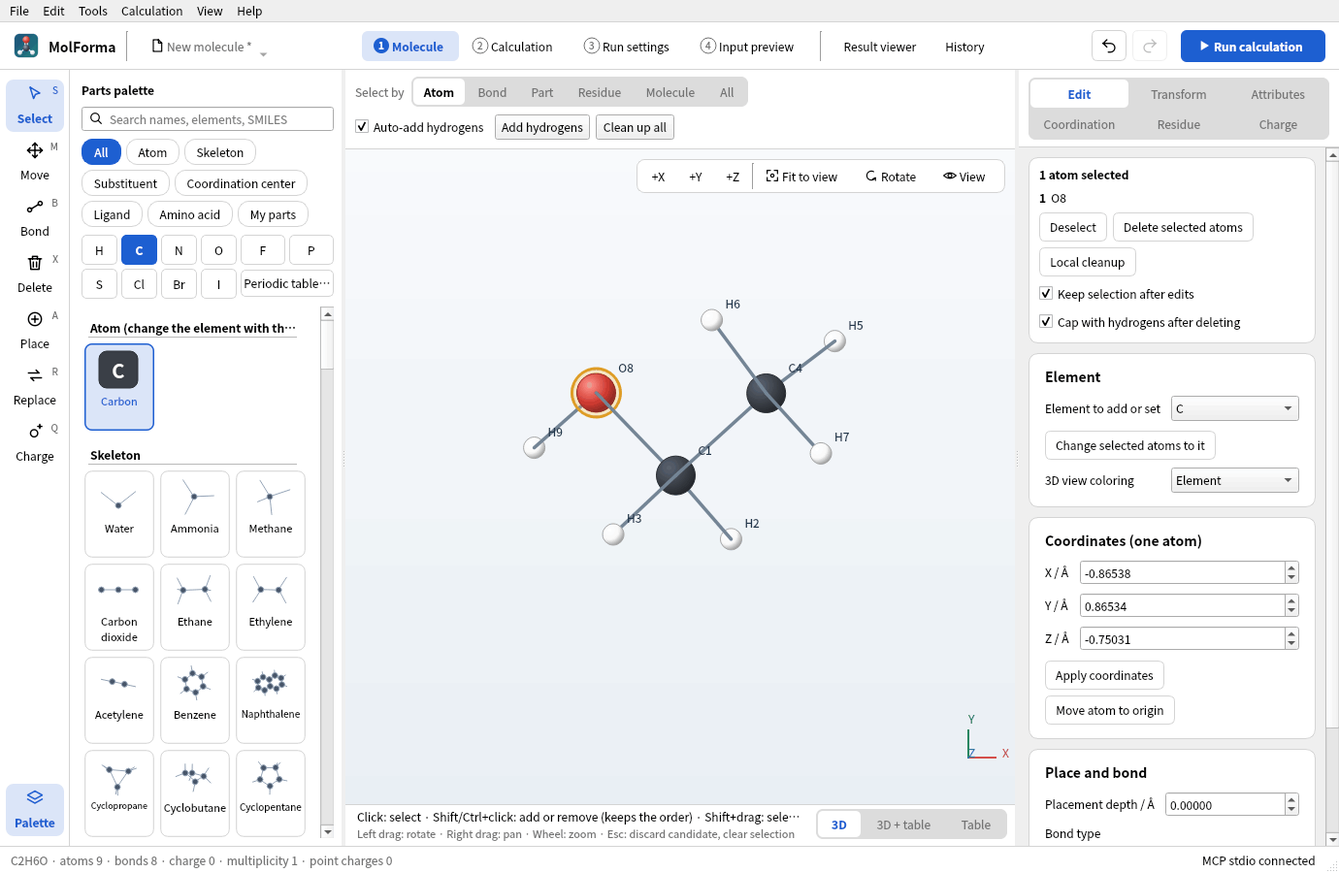
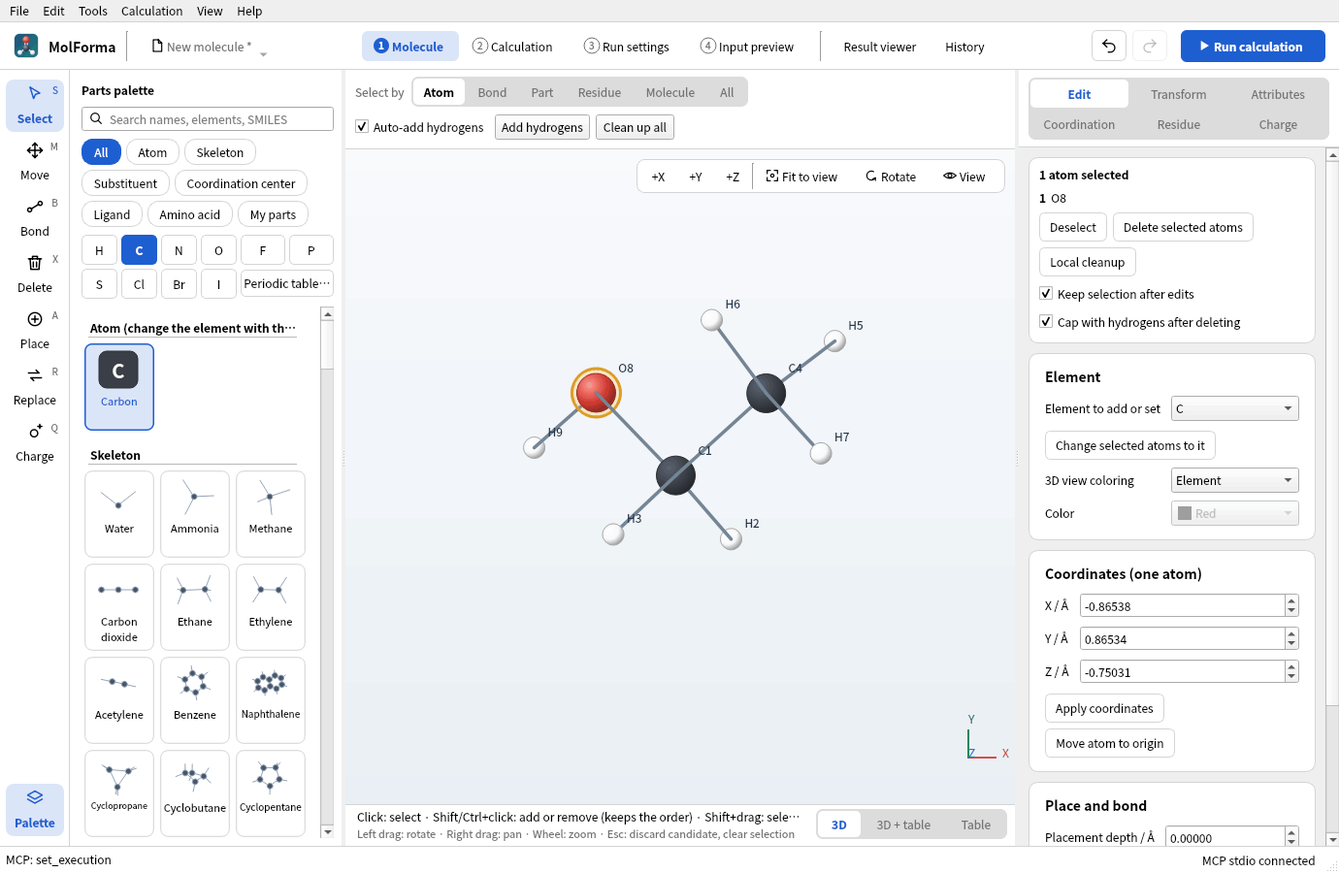
Color atoms in one color; fit large structures to the view
"3D画面の色分け" gets "単色": every atom in the color chosen under "色", one
of eight or any from the color dialog, to see the shape of large molecules
such as a virus spike protein.

"全体を表示" no longer stops zooming out at 4 px/Å, which cut off
structures of a radius over about 70 Å; it zooms out as far as the wheel.

Changed region(s): [[0.779, 0.56, 0.9659, 0.9644], [0.0, 0.9644, 0.2804, 0.9956], [0.9348, 0.9333, 0.9659, 0.9644]]

diff --git a/src/ui/molecule_properties.cpp b/src/ui/molecule_properties.cpp
@@ -206,14 +206,62 @@ void MoleculePanel::buildEditPanel() {
                                [this] { replaceElements(requireSelection(), value(elementBox)); }),
                         1);
     // In a card like the rest of the page: how the 3D view colors the atoms.
-    auto *color =
-        choices(f, tr("3D画面の色分け"), {tr("元素"), tr("残基"), tr("鎖")}, {"element", "residue", "chain"});
+    auto *color = choices(f, tr("3D画面の色分け"), {tr("元素"), tr("残基"), tr("鎖"), tr("単色")},
+                          {"element", "residue", "chain", "uniform"});
     color->setObjectName("moleculeColorMode");
     color->setToolTip(
         tr("残基: 残基ごとに色を変えます。鎖: たんぱく質・核酸の残基を鎖ごとの色にし、配位子・イオン・水は"
-           "元素の色のままにします。"));
-    connect(color, &QComboBox::currentIndexChanged, this,
-            [this, color] { view->setColorMode(value(color)); });
+           "元素の色のままにします。単色: すべての原子を下の「色」で選んだ色にします。"));
+    // The color of "単色": one of a few, or any from the color dialog.
+    static constexpr std::pair<const char *, const char *> palette[] = {
+        {QT_TR_NOOP("赤"), "#c8323c"}, {QT_TR_NOOP("橙"), "#e8822a"},   {QT_TR_NOOP("黄"), "#e3c13b"},
+        {QT_TR_NOOP("緑"), "#4a9e52"}, {QT_TR_NOOP("水色"), "#5ab4d6"}, {QT_TR_NOOP("青"), "#3f6fb5"},
+        {QT_TR_NOOP("紫"), "#8a5aa8"}, {QT_TR_NOOP("灰色"), "#9a9a9a"}};
+    const auto swatch = [](const QColor &c) {
+        QPixmap pixmap(14, 14);
+        pixmap.fill(c);
+        return QIcon(pixmap);
+    };
+    auto *uniform = new QComboBox;
+    uniform->setObjectName("moleculeUniformColor");
+    for (const auto &[name, hex] : palette)
+        uniform->addItem(swatch(QColor(hex)), translated(name), QString(hex));
+    uniform->addItem(tr("その他の色…"));
+    uniform->setEnabled(false);
+    uniform->setProperty("chosen", 0);
+    view->setUniformColor(QColor(palette[0].second));
+    f->addRow(tr("色"), uniform);
+    connect(color, &QComboBox::currentIndexChanged, this, [this, color, uniform] {
+        uniform->setEnabled(value(color) == "uniform");
+        view->setColorMode(value(color));
+    });
+    connect(uniform, &QComboBox::currentIndexChanged, this, [this, uniform](int index) {
+        if (const QColor c(uniform->itemData(index).toString()); c.isValid()) {
+            uniform->setProperty("chosen", index);
+            view->setUniformColor(c);
+        }
+    });
+    // "その他の色…" asks for a color, which an item before it then holds; cancelling keeps the last one.
+    connect(uniform, &QComboBox::activated, this, [this, uniform, swatch](int index) {
+        if (index != uniform->count() - 1)
+            return;
+        const int chosen = uniform->property("chosen").toInt();
+        const auto c =
+            QColorDialog::getColor(QColor(uniform->itemData(chosen).toString()), this, tr("単色の色"));
+        if (!c.isValid()) {
+            uniform->setCurrentIndex(chosen);
+            return;
+        }
+        int custom = uniform->count() - 2;
+        if (!uniform->itemData(custom, Qt::UserRole + 1).toBool()) {
+            uniform->insertItem(++custom, QString());
+            uniform->setItemData(custom, true, Qt::UserRole + 1);
+        }
+        uniform->setItemIcon(custom, swatch(c));
+        uniform->setItemText(custom, c.name());
+        uniform->setItemData(custom, c.name());
+        uniform->setCurrentIndex(custom);
+    });
     // The coordinate table, when shown, edits the same values.
     positionCard = section(f, QT_TR_NOOP("座標（1原子）"));
     positionCard->setVisible(moleculeLayout->currentData() == "view");

diff --git a/tests/test_editor.cpp b/tests/test_editor.cpp
@@ -16,6 +16,7 @@
 #include <QApplication>
 #include <QCheckBox>
 #include <QClipboard>
+#include <QColorDialog>
 #include <QComboBox>
 #include <QDialogButtonBox>
 #include <QDir>
@@ -1127,7 +1128,43 @@ class EditorTest : public QObject {
             QVERIFY(!b->text().contains("拘束に追加"));
         }
         auto *color = w.findChild<QComboBox *>("moleculeColorMode");
-        QCOMPARE(color->count(), 3);
+        QCOMPARE(color->count(), 4);
+        // "単色": its color from a few, or any from the color dialog.
+        auto *uniform = w.findChild<QComboBox *>("moleculeUniformColor");
+        QVERIFY(!uniform->isEnabled());
+        color->setCurrentIndex(color->findData("uniform"));
+        QVERIFY(uniform->isEnabled());
+        const auto oxygen = d.atoms[0].id;
+        QCOMPARE(w.canvas()->atomColor(oxygen), QColor("#c8323c"));
+        uniform->setCurrentIndex(uniform->findText("青"));
+        QCOMPARE(w.canvas()->atomColor(oxygen), QColor("#3f6fb5"));
+        const int other = uniform->count() - 1;
+        const auto choose = [&](const QColor &chosen) {
+            QTimer::singleShot(0, &w, [chosen] {
+                auto *dialog = qobject_cast<QColorDialog *>(QApplication::activeModalWidget());
+                QVERIFY(dialog);
+                if (chosen.isValid()) {
+                    dialog->setCurrentColor(chosen);
+                    dialog->accept();
+                } else
+                    dialog->reject();
+            });
+            const int last = uniform->count() - 1; // "その他の色…", after the color so chosen.
+            uniform->setCurrentIndex(last);
+            emit uniform->activated(last);
+        };
+        choose(QColor()); // Cancelled: the last color stays.
+        QCOMPARE(uniform->currentText(), QString("青"));
+        QCOMPARE(w.canvas()->atomColor(oxygen), QColor("#3f6fb5"));
+        choose(QColor("#123456"));
+        QCOMPARE(uniform->currentText(), QString("#123456"));
+        QCOMPARE(w.canvas()->atomColor(oxygen), QColor("#123456"));
+        choose(QColor("#654321")); // The same item holds the next one.
+        QCOMPARE(uniform->count(), other + 2);
+        QCOMPARE(w.canvas()->atomColor(oxygen), QColor("#654321"));
+        color->setCurrentIndex(color->findData("element"));
+        QVERIFY(!uniform->isEnabled());
+        QCOMPARE(w.canvas()->atomColor(oxygen), element("O").color);
         QVERIFY(w.findChild<QPushButton *>("preparePdb"));
 
         // The task is set in "2 計算条件" only.

diff --git a/src/ui/molecule_view.cpp b/src/ui/molecule_view.cpp
@@ -33,6 +33,8 @@
 #include <utility>
 namespace mf {
 namespace {
+// Pixels per Å: how far the wheel zooms out and in.
+constexpr double MinScale = .5, MaxScale = 600;
 class ViewOverlay : public QWidget {
   public:
     std::function<void(QPainter &)> draw;
@@ -259,7 +261,7 @@ void MoleculeView::indexTrace() {
 void MoleculeView::refreshColors() {
     // By residue: a hue for each residue, the last one that holds the atom. By chain: the polymer residues
     // in a color of each chain, in the order the chains come; ligands, ions and water keep the element
-    // colors, so that they stand out.
+    // colors, so that they stand out. Uniform: every atom in one color, as in pictures of large molecules.
     static const QColor chainColors[] = {
         QColor("#4e79a7"), QColor("#f28e2b"), QColor("#59a14f"), QColor("#e15759"), QColor("#76b7b2"),
         QColor("#edc948"), QColor("#b07aa1"), QColor("#ff9da7"), QColor("#9c755f"), QColor("#bab0ac")};
@@ -280,7 +282,8 @@ void MoleculeView::refreshColors() {
     atomColors.clear();
     atomColors.reserve(doc.atoms.size());
     for (const auto &atom : doc.atoms)
-        atomColors << colors.value(atom.id, element(atom.element).color);
+        atomColors << (colorMode == "uniform" ? uniformColor
+                                              : colors.value(atom.id, element(atom.element).color));
     moleculeDirty = true;
 }
 void MoleculeView::renderScene() {
@@ -467,7 +470,8 @@ void MoleculeView::fit() {
     double radius = 2;
     for (auto p : points)
         radius = std::max(radius, (p - center).norm() + .6);
-    scale = std::clamp(std::min(width(), height()) / (2.5 * radius), 4., 100.);
+    // Large proteins (a radius of 100 Å and more) fit too.
+    scale = std::clamp(std::min(width(), height()) / (2.5 * radius), MinScale, 100.);
     pan = {};
     // A hidden view (another tab) has no final size yet: fit again when it is shown.
     fitPending = !isVisible();
@@ -1107,7 +1111,7 @@ void MoleculeView::mouseReleaseEvent(QMouseEvent *e) {
 }
 void MoleculeView::wheelEvent(QWheelEvent *e) {
     // Zoom about the cursor: the point under it stays in place.
-    const double next = std::clamp(scale * std::pow(1.0015, e->angleDelta().y()), .5, 600.);
+    const double next = std::clamp(scale * std::pow(1.0015, e->angleDelta().y()), MinScale, MaxScale);
     const QPointF cursor = e->position(), middle(width() * .5, height() * .5);
     pan = cursor - middle - (cursor - middle - pan) * (next / scale);
     scale = next;

diff --git a/tests/test_rendering.cpp b/tests/test_rendering.cpp
@@ -148,8 +148,27 @@ class RenderingTest : public QObject {
         QVERIFY(view.atomColor(first) != view.atomColor(other));
         QCOMPARE(view.atomColor(d.residues[1].atoms["CB"]), view.atomColor(first));
         QCOMPARE(view.atomColor(water.atoms[0].id), element("O").color);
+        view.setUniformColor(QColor("#c8323c"));
+        view.setColorMode("uniform"); // Every atom, the water too.
+        QCOMPARE(view.atomColor(first), QColor("#c8323c"));
+        QCOMPARE(view.atomColor(water.atoms[0].id), QColor("#c8323c"));
+        view.setUniformColor(QColor("#3f6fb5"));
+        QCOMPARE(view.atomColor(water.atoms[1].id), QColor("#3f6fb5"));
         view.setColorMode("element");
         QCOMPARE(view.atomColor(first), element("C").color);
+    }
+    void fitsLargeStructures() {
+        // As large as a spike protein of a virus (160 Å) and larger: fitting shows every atom.
+        for (const double size : {160., 400., 1000.}) {
+            auto d = Document::fromXyz(QString("3\n\nC 0 0 0\nC 0 0 %1\nC 0 3 %1\n").arg(size));
+            MoleculeView view;
+            view.resize(400, 300);
+            view.setDocument(d);
+            view.fit();
+            for (const auto &atom : d.atoms)
+                QVERIFY2(QRectF(0, 0, 400, 300).contains(view.atomScreenPosition(atom.id)),
+                         qPrintable(QString::number(size)));
+        }
     }
     void surfaceWithoutAtoms() {
         MoleculeView view;

diff --git a/src/ui/molecule_view.h b/src/ui/molecule_view.h
@@ -109,10 +109,15 @@ class MoleculeView : public QWidget {
         showIndices = value;
         scheduleOverlay();
     }
-    // "element" (default), "residue" (a hue for each residue) or "chain" (the polymer residues in a color of
-    // their chain, other atoms by element).
+    // "element" (default), "residue" (a hue for each residue), "chain" (the polymer residues in a color of
+    // their chain, other atoms by element) or "uniform" (every atom in uniformColor).
     void setColorMode(const QString &mode) {
         colorMode = mode;
+        refreshColors();
+        scheduleRender();
+    }
+    void setUniformColor(const QColor &color) {
+        uniformColor = color;
         refreshColors();
         scheduleRender();
     }
@@ -181,6 +186,7 @@ class MoleculeView : public QWidget {
     QSet<QString> selectedIds; // The same atoms, for lookups while drawing.
     EditorTool tool = EditorTool::Select;
     QString colorMode = "element";
+    QColor uniformColor = Qt::gray;
     Vec center = Vec::Zero();
     double scale = 65, depth = 0;
     Mat orientation = Mat::Identity(); // Camera rotation; mouse drags turn it about screen axes.

diff --git a/docs/features/molecule.md b/docs/features/molecule.md
@@ -36,7 +36,7 @@
 - **削除**: 「編集」ページの「選択原子を削除」、Deleteキー、削除ツール、右クリックは同じ削除で、候補として表示します。削除する原子だけに結合していた水素も一緒に消し、「削除後に水素で終端化」（「編集」ページの選択の欄と削除ツールの設定は共通、既定でオン）がオンなら、重原子を削除して切れた結合の相手に水素を補います（水素だけを削除したときは補いません）。削除前の全電荷が形式電荷の合計（配位中心があれば酸化数との合計）と一致していれば、全電荷も削除後の合計に合わせます（Na⁺の配位クラスターを消すと+1から0に戻るなど）。座標の表でもDeleteキーは同じ削除です。
 - **候補**: 確定前の変更は3D画面の上の行（ツールの設定と同じ場所。画面に重ならず、3D画面の大きさも変えません）に琥珀色で示し、操作名と、追加・削除・移動した原子数を3D画面と同じ印（追加は緑の円、削除は元の位置に赤い×、移動は橙の円）で表示します。「編集」ページの上部には削除・追加する原子を8件まで一覧します。Ctrl+Enterで確定、Escで取消します（どのタブからでも有効）。「1 分子」以外のタブでは、タブの下に同じバーを表示します。「元に戻す」「やり直す」のツールチップと「編集」メニューには、対象の操作名を表示します。
 - **元に戻す・やり直し**: Undo/Redoは分子と各タブの設定で共通です。戻せる・やり直せる操作がないときはボタンとメニューを無効にします（「変更を確定」も候補があるときだけ有効）。実行するとステータスバーに操作名を表示し、今のタブ以外の内容（例: 「1 分子」で戻した基底関数の変更）なら「（「2 計算条件」の内容）」のようにタブ名を添えます。
-- **視点**: 左ドラッグは画面の縦・横軸まわりの回転（トラックボール）で、向きによる回転方向の偏りがありません。立体的な構造のファイルを開いたときは、結果ビューアと同じく斜めから見た向きで表示します（平面の分子や新規作成は正面から）。編集のあとは、分子が画面からはみ出たときだけ全体表示に合わせ直し、それ以外は視点を動かしません（次にクリックする原子が動かないように）。「+Z」は正面（+Z方向）から見て全体を表示し、「全体を表示」（F）は向きを変えずに分子全体を収めます。回転スライダー（3D画面右上の「回転」）はマウス操作や+X/+Y/+Zに追従し、スライダーに触れても視点は飛びません。ホイールはカーソル位置を中心に拡大縮小します。3D画面右上の操作（+X/+Y/+Z・全体を表示・回転・表示）は結果ビューアでも同じ並びです。
+- **視点**: 左ドラッグは画面の縦・横軸まわりの回転（トラックボール）で、向きによる回転方向の偏りがありません。立体的な構造のファイルを開いたときは、結果ビューアと同じく斜めから見た向きで表示します（平面の分子や新規作成は正面から）。編集のあとは、分子が画面からはみ出たときだけ全体表示に合わせ直し、それ以外は視点を動かしません（次にクリックする原子が動かないように）。「+Z」は正面（+Z方向）から見て全体を表示し、「全体を表示」（F）は向きを変えずに分子全体を収めます（ウイルスのスパイクたんぱく質のような大きな構造も収まるまで縮小します）。回転スライダー（3D画面右上の「回転」）はマウス操作や+X/+Y/+Zに追従し、スライダーに触れても視点は飛びません。ホイールはカーソル位置を中心に拡大縮小します。3D画面右上の操作（+X/+Y/+Z・全体を表示・回転・表示）は結果ビューアでも同じ並びです。
 - **ラベル**: 「表示 → ラベル」で元素記号・番号を表示する原子（すべて・水素以外・選択した原子・なし）を、「表示 → 番号を表示」で通し番号の有無を選びます（3D画面右上の「表示」からも同じ）。ラベルは原子の右上・右下・左上・左下のうち、ほかのラベルや原子に重ならない位置に置きます。置けないラベルは、選択した原子・配位中心・水素以外・手前の原子を優先して省きます。結果ビューアにも同じ選択があります（設定は別々に保存）。
 - **キー操作**: Delete（選択原子を削除。選択がなければステータスバーで知らせます）、Ctrl+A（すべて選択）、Ctrl+C（選択した原子、または全体をXYZでコピー）、Ctrl+V（クリップボードのXYZを断片として今の分子の横に追加）、1/2/3（選択した2原子の結合次数）、H（水素の表示）、F（全体表示）は「1 分子」にフォーカスがあるときだけ働き、入力欄では各欄の通常の操作になります。Ctrl+Enter・Esc・Ctrl+1〜Ctrl+6（タブの切替）・Ctrl+Z/Y等はどこでも働きます。「ヘルプ → キーボードショートカット一覧」に全項目と有効な場所、マウス操作をまとめています。
 - **回転・鏡映の中心**: 「変形」ページの「選択を回転」「指定平面で鏡映」は、既定で選択した原子の中心（座標の平均）を通る軸・平面で行い、分子はその場で向きを変えます。「回転・鏡映の中心」を「原点」にすると座標原点を使います。「鏡像の写しを作る」では、写しを元の分子の+X方向6 Åの位置に、その場で鏡映して置きます。

diff --git a/docs/en/features/molecule.md b/docs/en/features/molecule.md
@@ -36,7 +36,7 @@
 - **Deletion**: “Delete selected atoms” on the “Edit” page, the Delete key, the Delete tool and the context menu perform the same deletion and show it as a candidate. Hydrogens bonded only to the deleted atoms are removed as well, and when “Cap with hydrogens after deleting” is on (one setting shared by the selection box of the “Edit” page and the Delete tool; on by default), deleting heavy atoms adds hydrogens to the atoms whose bonds were cut (not when only hydrogens are deleted). When the total charge matched the sum of the formal charges (with the oxidation numbers of coordination centers, if any) before the deletion, it follows the new sum (deleting a Na⁺ coordination cluster takes it from +1 back to 0, for example). The Delete key in the coordinate table performs the same deletion.
 - **Candidates**: Changes that are not yet confirmed are shown in amber in the row above the 3D view (where the tool settings are; it does not cover the view or change the size of the 3D view), with the operation name and the numbers of added, removed and moved atoms, using the same marks as the 3D view (added: green circle, removed: red × at the old position, moved: orange circle). The top of the “Edit” page lists up to 8 atoms to be removed or added. Ctrl+Enter confirms and Esc discards (from any tab). On tabs other than “1 Molecule”, the same bar appears below the tabs. The tooltips of “Undo” and “Redo” and the “Edit” menu show the name of the operation concerned.
 - **Undo and redo**: Undo/redo is shared by the molecule and the settings of all tabs. When there is nothing to undo or redo, the buttons and menu items are disabled (“Confirm changes” is also enabled only while there is a candidate). Undoing or redoing shows the operation name in the status bar and, when it changes another tab than the current one (for example a basis set change undone from “1 Molecule”), adds the tab name as in (in “2 Calculation”).
-- **View**: Left-drag rotates about the vertical and horizontal axes of the screen (trackball), with no rotation bias that depends on the orientation. A file with a three-dimensional structure opens viewed from an oblique direction, as in the result viewer (planar molecules and new molecules are viewed from the front). After an edit, the view is refitted only when the molecule extends beyond the view; otherwise the view does not move (so that the atom you click next stays in place). “+Z” shows the whole molecule viewed from the front (+Z direction), and “Fit to view” (F) fits the whole molecule without changing the orientation. The rotation sliders (“Rotate” at the top right of the 3D view) follow mouse operations and +X/+Y/+Z, and touching a slider does not make the view jump. The wheel zooms around the cursor position. The controls at the top right of the 3D view (+X/+Y/+Z, “Fit to view”, “Rotate”, “View”) are in the same order in the result viewer.
+- **View**: Left-drag rotates about the vertical and horizontal axes of the screen (trackball), with no rotation bias that depends on the orientation. A file with a three-dimensional structure opens viewed from an oblique direction, as in the result viewer (planar molecules and new molecules are viewed from the front). After an edit, the view is refitted only when the molecule extends beyond the view; otherwise the view does not move (so that the atom you click next stays in place). “+Z” shows the whole molecule viewed from the front (+Z direction), and “Fit to view” (F) fits the whole molecule without changing the orientation (zooming out as far as large structures such as the spike protein of a virus need). The rotation sliders (“Rotate” at the top right of the 3D view) follow mouse operations and +X/+Y/+Z, and touching a slider does not make the view jump. The wheel zooms around the cursor position. The controls at the top right of the 3D view (+X/+Y/+Z, “Fit to view”, “Rotate”, “View”) are in the same order in the result viewer.
 - **Labels**: “View → Labels” chooses the atoms that show their element symbol and number (All, Heavy atoms, Selected atoms, None), and “View → Show numbers” whether serial numbers are shown (the same choices are in “View” at the top right of the 3D view). Each label is placed at the upper right, lower right, upper left or lower left of its atom, wherever it does not overlap other labels or atoms. Labels that do not fit are dropped, keeping those of selected atoms, coordination centers, heavy atoms and atoms in front first. The result viewer has the same choices (saved separately).
 - **Keys**: Delete (deletes the selected atoms; with no selection, the status bar says so), Ctrl+A (select all), Ctrl+C (copy the selected atoms, or the whole molecule, as XYZ), Ctrl+V (add the XYZ on the clipboard as a fragment beside the current molecule), 1/2/3 (bond order of 2 selected atoms), H (show hydrogens) and F (fit to view) work only while “1 Molecule” has the focus; in input fields they do what the field normally does. Ctrl+Enter, Esc, Ctrl+1–Ctrl+6 (switch tabs), Ctrl+Z/Y and so on work everywhere. “Help → Keyboard shortcuts” lists all of them with where they apply, and the mouse controls.
 - **Center of rotation and mirroring**: “Rotate selection” and “Mirror in plane” on the “Transform” page use, by default, an axis or plane through the center of the selected atoms (the mean of their coordinates), so the molecule changes its orientation in place. Setting “Rotation/mirror center” to “Origin” uses the coordinate origin. “Make a mirrored copy” places the copy 6 Å from the original molecule in the +X direction, mirrored in place.

diff --git a/docs/features/molecule_pages.md b/docs/features/molecule_pages.md
@@ -22,7 +22,7 @@
 | 断片割当（FMO／Counterpoise／SAPT0）、断片電荷・多重度、BDA:BAA | 作成・編集のUIはない（NWChem入力へ変換できないため）。Counterpoise補正は「2 計算条件」の「BSSE補正」（結合した分子ごとの単量体、NWChemの `bsse` ブロック）で設定。FMO・SAPT0は未対応 |
 | 残基: PDB読込・ダウンロード（「PDBからダウンロード…」）・診断・修復、構造を検査…、原子対応CSVの書き出し | CSVは出力原子番号・元素・原子名・残基を保存 |
 | 残基: 活性部位の切り出し（「周囲を選択」「選択範囲を切り出す」） | たんぱく質の配位子や活性部位の周りを、量子化学計算用のクラスターモデルにする。「周囲を選択」は選択した原子から半径（既定5 Å）以内の原子を選ぶ。「残基ごとに含める」では半径内に原子がある残基を丸ごと（残基に登録されていない原子は分子ごと）選び、「水分子を含める」を外すと水を除く。水素は結合相手の原子と一緒に選ぶ。「選択範囲を切り出す」は選択していない原子を削除する候補を作り、切った共有結合ごとに、残す原子から元の結合の向きへX–Hの長さ（共有結合半径の和）で水素を置く（リンク原子）。金属との結合と配位結合には水素を置かない。「切断した原子を固定」では水素を付けた原子を固定し、構造最適化でも全体の中での位置を保つ。「水素を付ける（pH 7）」（既定オン）では、PDBの構造にない水素をpH 7の状態で付ける。Asp・Glu −1、Lys・Arg +1、鎖の末端はNH3+・COO−、Hisは金属に配位していない窒素に水素（どちらも配位していなければHIE。残基名がHID・HIE・HIP・ASH・GLH・LYN・CYMならその状態）、金属に配位したCysは−1にする。PDBの化学成分辞書のイオンはその電荷（ZN +2、NA +1、CL −1など）、硫酸（SO4）は−2にし、金属との結合は供与原子からの配位結合にする（配位した水はH2Oのまま）。そのほかの配位子は原子価に合わせて水素を付けるので、電荷・プロトン化状態を確かめる。すでに水素がある構造でも、これらの状態に揃える。「周りの電荷を点電荷として残す」では、削除する原子のうち切り出す原子から「点電荷の範囲」（既定15 Å）以内にある、電荷を持つ基を点電荷（出所「site」）として残し、「2 計算条件」の「「1 分子」の外部点電荷を含める」をオンにする。Asp・Glu（カルボキシ基の2つの酸素に−0.5ずつ）、Lys（+1）、Arg（グアニジノ基の3つの窒素に+1/3ずつ）、HIP（2つの窒素に+0.5ずつ）、鎖の末端、イオン、硫酸と、そのほかの残基の原子の形式電荷が対象。原子ごとの部分電荷ではなく基の正味の電荷だけを置く簡易な埋め込みで、水と中性の基は残さない。全電荷は形式電荷の合計に追従。MCPでは `cut_out_site` でファイルの読み込みから切り出しまでを1つの編集で行えるので、1万原子を超える構造にも使える（[MCP](../mcp.md)） |
-| 編集: 3D画面の色分け（元素・残基・鎖。「元素」カード） | 構造の確認。残基は残基ごとの色、鎖はたんぱく質・核酸の残基を鎖ごとの色（鎖の順に青・橙・緑・赤…）にし、配位子・イオン・水と残基に登録されていない原子は元素の色のまま。選んだ色分けは保存しない |
+| 編集: 3D画面の色分け（元素・残基・鎖・単色。「元素」カード） | 構造の確認。残基は残基ごとの色、鎖はたんぱく質・核酸の残基を鎖ごとの色（鎖の順に青・橙・緑・赤…）にし、配位子・イオン・水と残基に登録されていない原子は元素の色のまま。単色はすべての原子を「色」で選んだ1色（赤・橙・黄・緑・水色・青・紫・灰色、「その他の色…」で任意の色）にし、大きな分子の形を見るのに使う。選んだ色分けと色は保存しない |
 | 電荷: 全電荷・多重度の表示、形式電荷の合計を全電荷に適用 | 値は「2 計算条件」で設定し、ここでは表示と「2 計算条件で変更」の移動先を示す。配位中心があるときは、中心の形式電荷の代わりに酸化数（補助）を数えた値を「酸化数と形式電荷の合計（n）を全電荷に適用」で適用 |
 | 電荷: 点電荷の座標・電荷、一覧、追加・更新・削除、TIP3P変換、ファイルへの書き出し | 外部静電場の準備。TIP3P変換は候補として確認 |
 | 電荷: 外部点電荷をNWChem入力に含めるかの表示、点電荷の一覧（ないときは追加のしかたを表示） | 設定は「2 計算条件」の「周囲の環境」（`bq units angstrom` を出力） |

diff --git a/docs/en/features/molecule_pages.md b/docs/en/features/molecule_pages.md
@@ -22,7 +22,7 @@ The right side has six pages, “Edit”, “Transform”, “Attributes” (ato
 | Fragment assignment (FMO/Counterpoise/SAPT0), fragment charge and multiplicity, BDA:BAA | No UI to create or edit them (they cannot be converted to NWChem input). The counterpoise correction is set with “BSSE correction” in “2 Calculation” (monomers per bonded molecule, NWChem's `bsse` block). FMO and SAPT0 are not supported |
 | Residue: PDB loading, download (“Download from PDB…”), diagnosis and repair, “Check structure…”, exporting the atom table as CSV | The CSV stores the output atom number, element, atom name and residue |
 | Residue: active-site cut-out (“Select surroundings”, “Cut out the selection”) | Turns the surroundings of a ligand or active site of a protein into a cluster model for quantum chemistry. “Select surroundings” selects the atoms within the radius (default 5 Å) of the selected atoms. With “Include whole residues” it takes every residue with an atom within the radius as a whole (atoms not registered in residues with their whole molecule); clearing “Include water molecules” leaves out water. Hydrogens are selected together with the atom they are bonded to. “Cut out the selection” makes a candidate that deletes the atoms not selected, and caps each covalent bond so cut with a hydrogen placed from the kept atom along the original bond at the X–H length (the sum of the covalent radii; a link atom). Bonds to metals and dative bonds get no hydrogen. “Fix the cut atoms” fixes the atoms that received a hydrogen, so that they keep their positions in the whole structure during optimizations too. “Add hydrogens (pH 7)” (on by default) adds the hydrogens that structures from the PDB lack, in the states of pH 7: Asp and Glu −1, Lys and Arg +1, chain ends NH3+ and COO−, His with its hydrogen on the nitrogen not bound to a metal (HIE when neither is; the state of the residue name for HID, HIE, HIP, ASH, GLH, LYN and CYM), and Cys bound to a metal −1. Ions of the PDB’s chemical component dictionary get their charge (ZN +2, NA +1, CL −1, …) and sulfate (SO4) −2, and bonds to metals become dative bonds from the donor (water bound to a metal stays H2O). Other ligands get hydrogens by their valence: check their charges and protonation states. Structures that already have hydrogens are brought to these states too. With “Keep the charges around as point charges”, the charged groups of the atoms deleted within the “Point-charge range” (default 15 Å) of the atoms cut out stay as point charges (source “site”), and “Include the external point charges of “1 Molecule”” in “2 Calculation” is turned on. They are Asp and Glu (−0.5 on each oxygen of the carboxyl group), Lys (+1), Arg (+1/3 on each nitrogen of the guanidino group), HIP (+0.5 on each nitrogen), chain ends, ions, sulfate and the formal charges of the atoms of other residues. It is a simple embedding with the net charges of the groups, not partial charges of each atom; water and neutral groups leave none. The total charge follows the sum of the formal charges. Over MCP, `cut_out_site` reads a file and cuts out the site in one edit, so it also works for structures of more than 10,000 atoms ([MCP](../mcp.md)) |
-| Edit: 3D view coloring (element, residue, chain; “Element” card) | Check the structure. Residue gives each residue a color; Chain gives the residues of proteins and nucleic acids a color of their chain (blue, orange, green, red, … in the order of the chains) and leaves ligands, ions, water and atoms not registered in residues in the colors of their elements. The choice is not saved |
+| Edit: 3D view coloring (element, residue, chain, single color; “Element” card) | Check the structure. Residue gives each residue a color; Chain gives the residues of proteins and nucleic acids a color of their chain (blue, orange, green, red, … in the order of the chains) and leaves ligands, ions, water and atoms not registered in residues in the colors of their elements. Single color paints every atom in the one color chosen under “Color” (red, orange, yellow, green, light blue, blue, purple, gray, or any color with “Other color…”), to see the shape of large molecules. The coloring and color chosen are not saved |
 | Charge: display of the total charge and multiplicity, applying the sum of formal charges as the total charge | The values are set in “2 Calculation”; this page shows them and leads there with Change in “2 Calculation”. With coordination centers, “Use oxidation and formal charges (n)” counts their oxidation numbers (aid) in place of their formal charges |
 | Charge: point charge coordinates and charges, list, add, update and delete, TIP3P conversion, export to a file | Prepare an external electrostatic field. The TIP3P conversion is checked as a candidate |
 | Charge: whether external point charges go into the NWChem input, list of point charges (explains how to add them when there are none) | Set under “Environment” in “2 Calculation” (writes `bq units angstrom`) |
